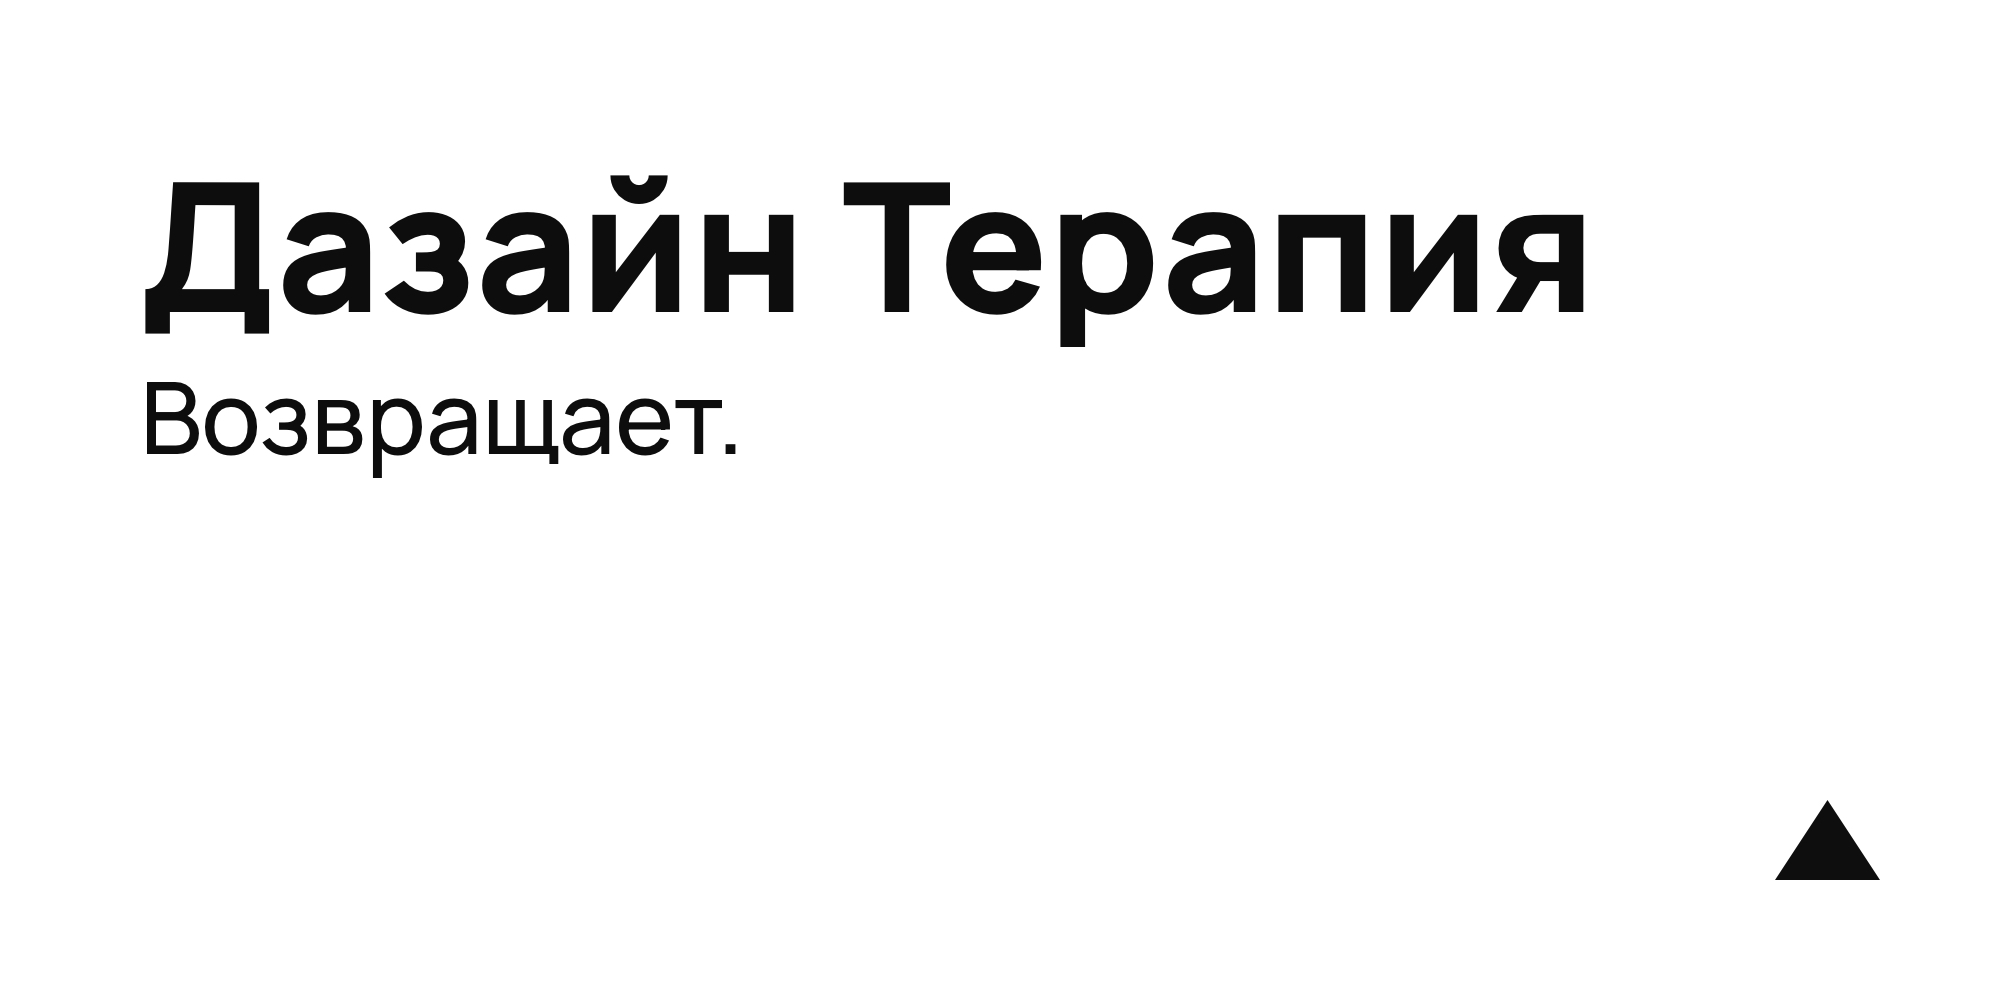
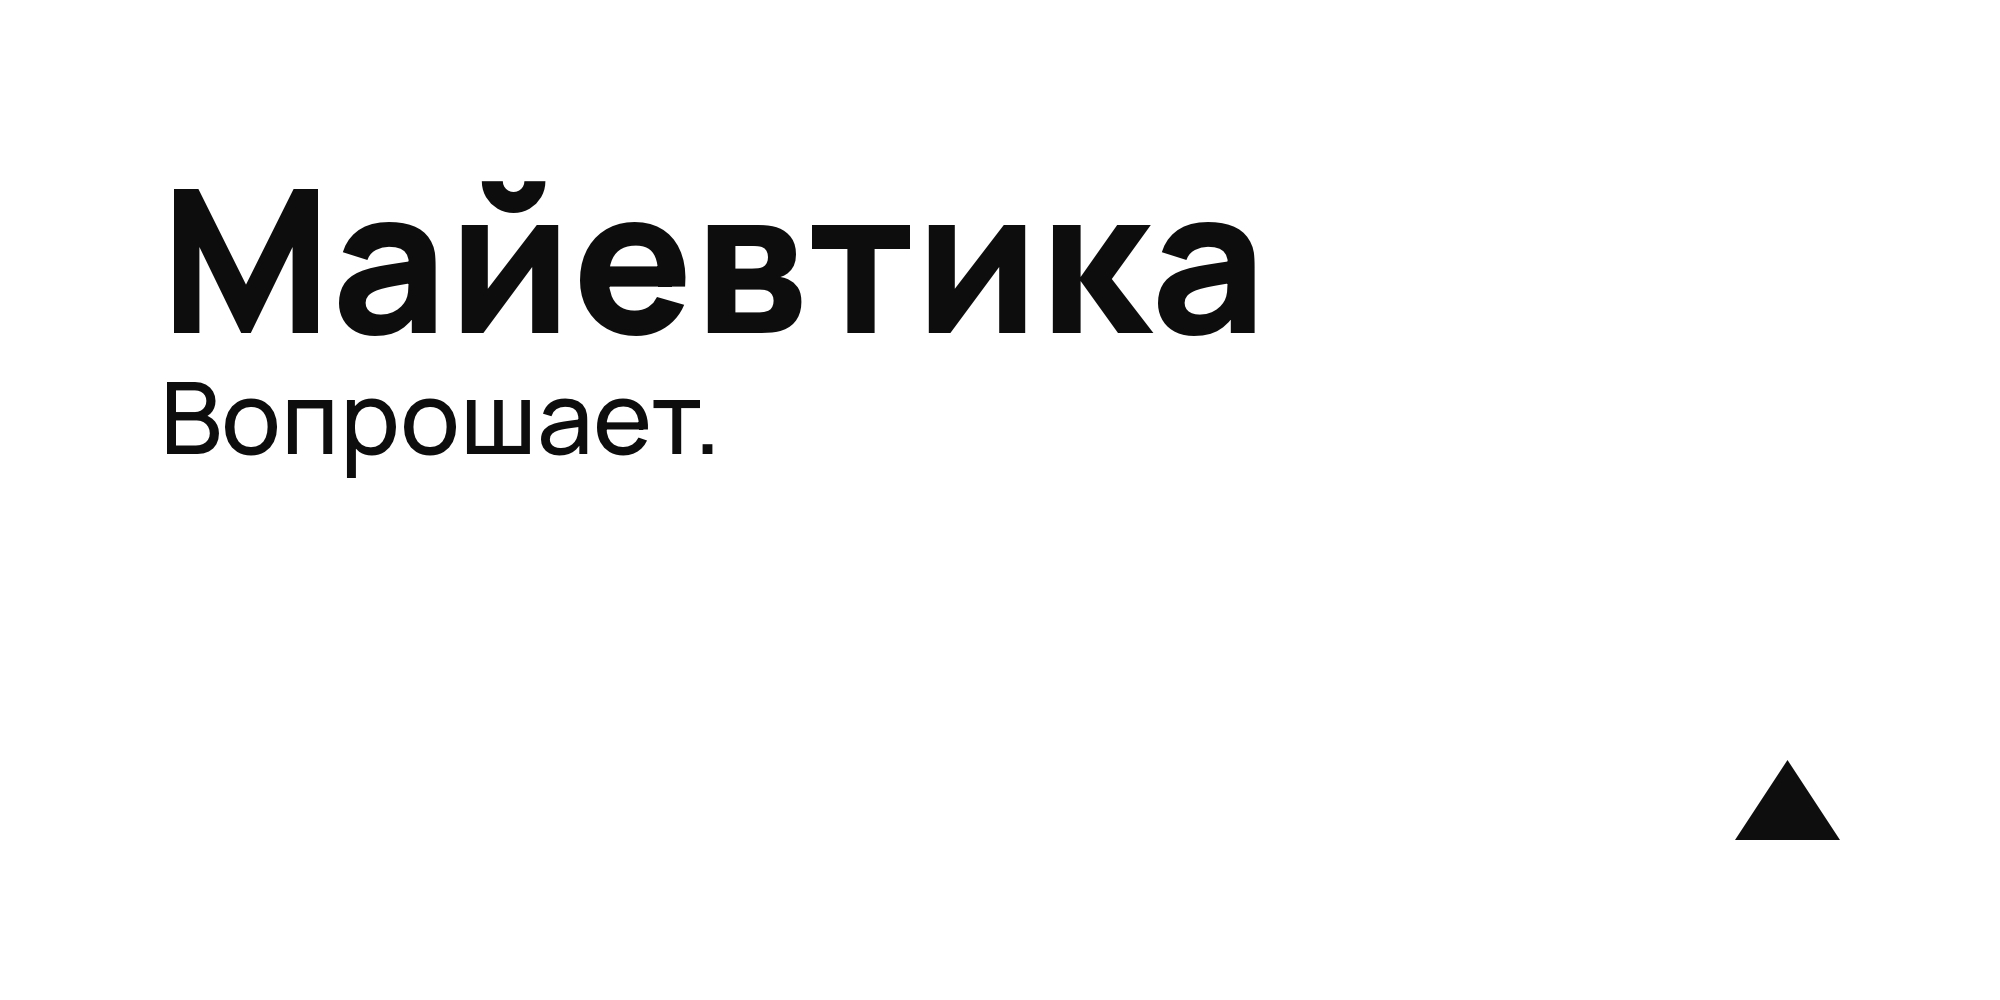
upd

Changed region(s): [[0.062, 0.155, 0.806, 0.341], [0.062, 0.372, 0.372, 0.465], [0.868, 0.775, 0.961, 0.899]]

diff --git a/index.html b/index.html
@@ -7,27 +7,31 @@
   <meta charset="UTF-8">
   <meta http-equiv="X-UA-Compatible" content="ie=edge" />
   
-  <title>Дазайн-Терапия</title>
+  <title>Майевтика</title>
 
   <meta name="mobile-web-app-capable" content="yes" />
   <meta name="apple-mobile-web-app-capable" content="yes" />
-  <meta name="application-name" content="Дазайн-Терапия" />
+  <meta name="application-name" content="Майевтика" />
   <meta name="apple-mobile-web-app-status-bar-style" content="#fff" />
-  <meta name="apple-mobile-web-app-title" content="Дазайн-Терапия" />
+  <meta name="apple-mobile-web-app-title" content="Майевтика" />
   <meta name="viewport" content="width=device-width, initial-scale=1.0">
   <meta name="description" content="Is watching.">
 
-  <meta property="og:site_name" content="Дазайн-Терапия"/>
+  <meta property="og:site_name" content="Майевтика"/>
   <meta property="og:description" content="Возвращает."/>
-  <meta property="og:title" content="Дазайн-Терапия">
+  <meta property="og:title" content="Майевтика">
   <meta property="og:type" content="profile">
-  <meta property="og:url" content="https://dasein.genrih.space" />
+  <meta property="og:url" content="https://ask.genrih.space" />
   <meta property="og:image" content="graph-preview.jpg" />
   
   <script type="text/javascript" src="code.js"></script>
-  <link rel="canonical" href="https://dasein.genrih.space" />
+  <link rel="canonical" href="https://ask.genrih.space" />
   <link rel="stylesheet" href="style.css">
-
+  
+  <!--
+  <link href="https://cdn.jsdelivr.net/npm/bootstrap@5.2.0-beta1/dist/css/bootstrap.min.css" rel="stylesheet" integrity="sha384-0evHe/X+R7YkIZDRvuzKMRqM+OrBnVFBL6DOitfPri4tjfHxaWutUpFmBp4vmVor" crossorigin="anonymous">
+  <script src="https://cdn.jsdelivr.net/npm/bootstrap@5.2.0-beta1/dist/js/bootstrap.bundle.min.js" integrity="sha384-pprn3073KE6tl6bjs2QrFaJGz5/SUsLqktiwsUTF55Jfv3qYSDhgCecCxMW52nD2" crossorigin="anonymous"></script>
+-->
   <link rel="shortcut icon" href="/favicons/favicon.ico" type="image/x-icon">
   <link rel="apple-touch-icon" sizes="57x57" href="/favicons/apple-icon-57x57.png">
   <link rel="apple-touch-icon" sizes="60x60" href="/favicons/apple-icon-60x60.png">
@@ -94,11 +98,16 @@
 Результатами своего более чем 10-ти летнего пути изучения и осмысления философии я делюсь в проектах
 <strong><a href="https://t.me/originlook">«Начало Умозрения»</a></strong> и <strong><a href="https://t.me/pragmalogos">«Прагмалогия»</a></strong>.
 
-<h1>Дазайн—терапия</h1>
+<h1>Метод</h1>
+Правильный вопрос содержит в себе ответ. 
+<br>
+Метод <a href="https://ru.wikipedia.org/wiki/Метод_Сократа">Майевтики</a> помогает найти тот самый вопрос.
+<br>
+<br>
 Я предлагаю вам вступить в живой диалог, чтобы помочь вернуться в переживание всей полноты вашего Бытия. 
 <br>
 <br>
-Готов оказать вам срочную поддержку в тяжелой кризисной ситуации без оплаты, в остальных же случаях руководствуюсь оценкой в 2000 рублей за час уделенного времени. Также вы можете присоедениться к <strong><a href="https://t.me/askbeing">группе в Телеграм</a></strong>, объеденяюшую людей, задающихся схожими вопросами. 
+Готов оказать вам срочную поддержку в тяжелой кризисной ситуации без оплаты, в остальных же случаях руководствуюсь оценкой в 2000 рублей за час уделенного времени. 
 
 <br>
 
@@ -107,6 +116,7 @@
 </div>
 
 <br>
+Также вы можете присоедениться к <strong><a href="https://t.me/askbeing">группе в Телеграм</a></strong>, объеденяюшую людей, задающихся схожими вопросами. 
 <br>
 <br>
 <br>
